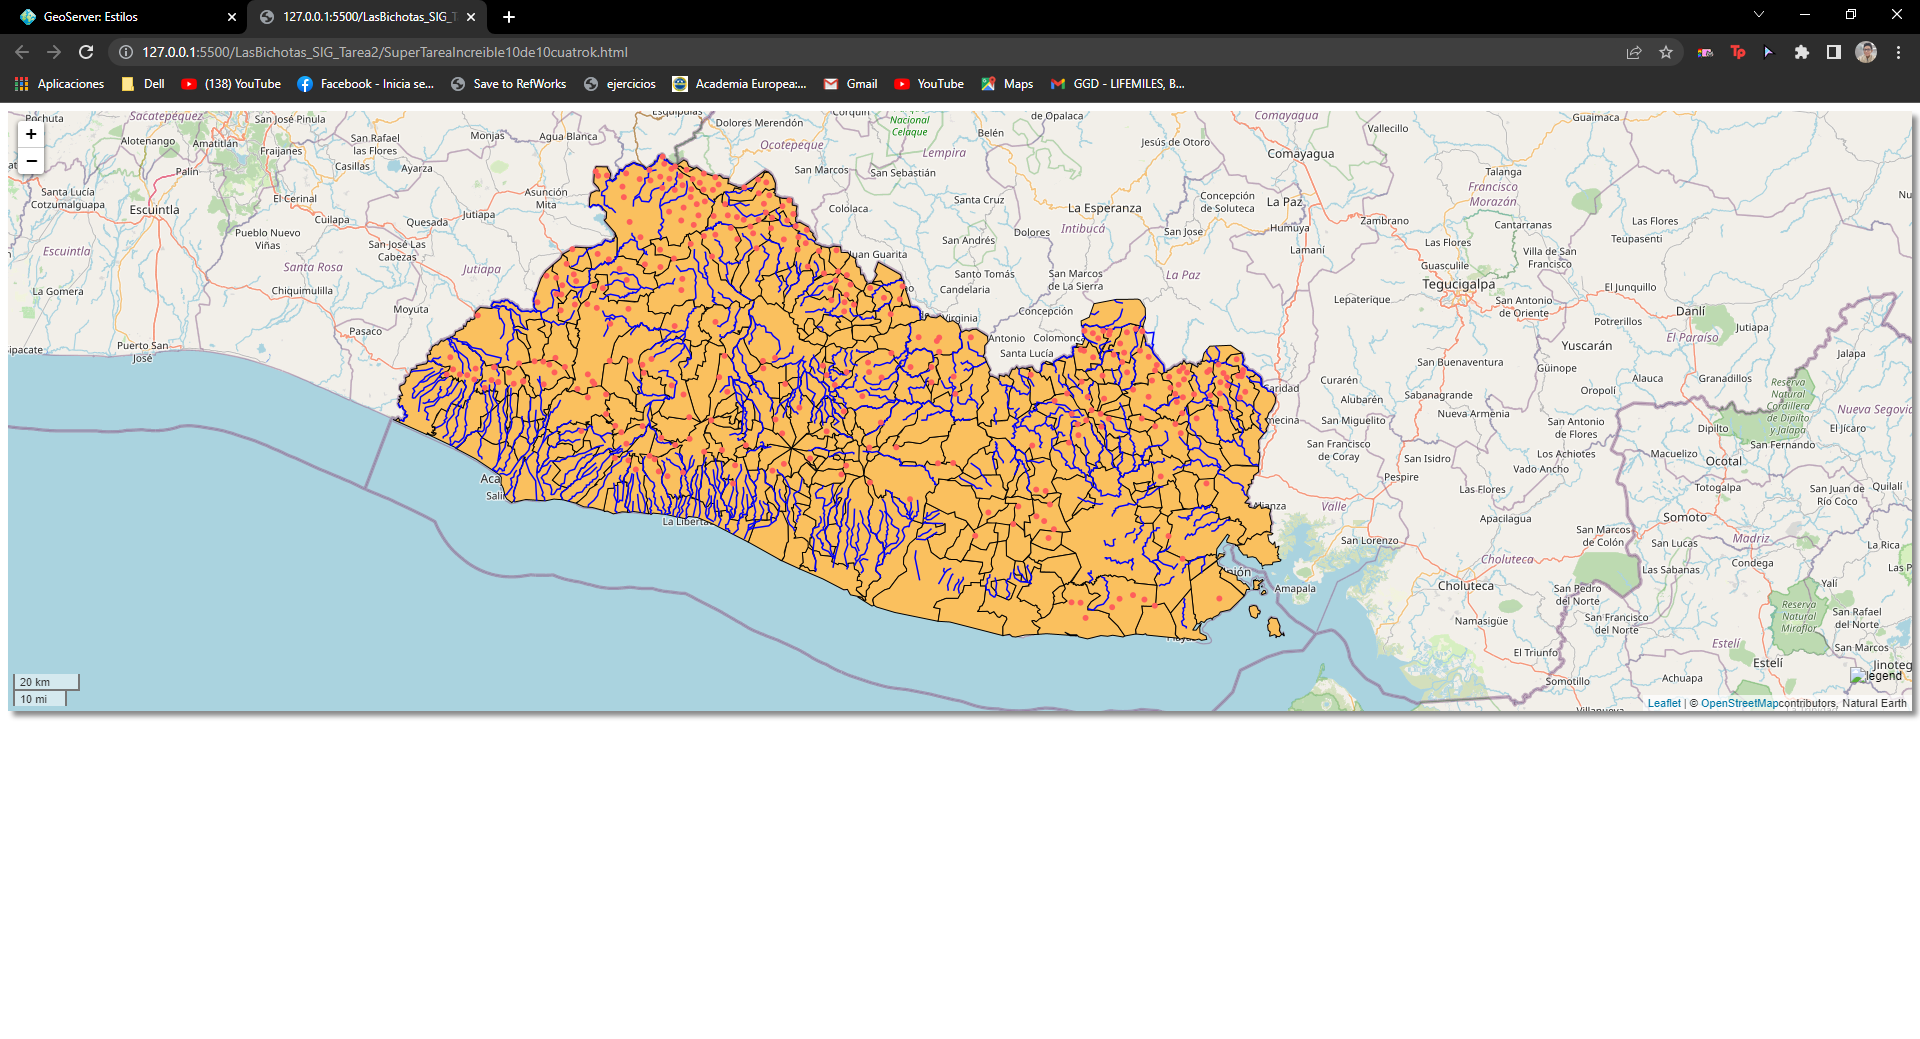
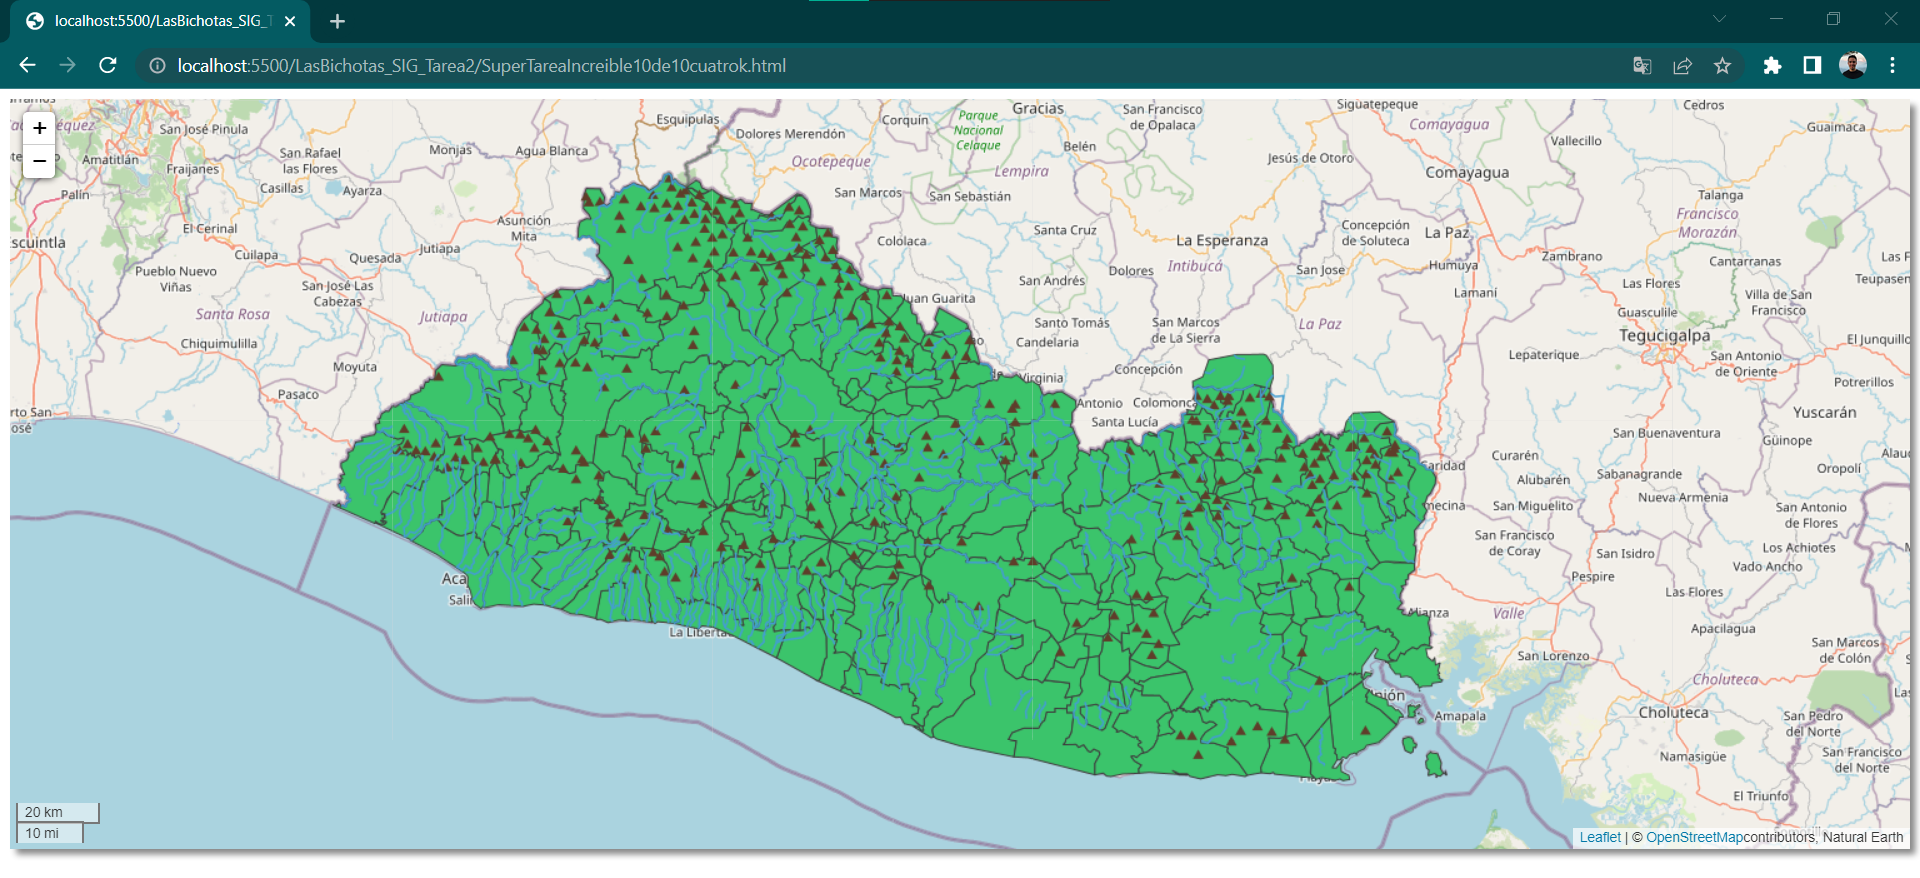
add: cambios finales

diff --git a/SuperTareaIncreible10de10cuatrok.html b/SuperTareaIncreible10de10cuatrok.html
@@ -13,6 +13,18 @@
         height: 600px;
         box-shadow: 5px 5px 5px #888;
       }
+      .info {
+        padding: 6px 8px;
+        font: 14px/16px Arial, Helvetica, sans-serif;
+        background: white;
+        background: rgba(255,255,255,0.8);
+        box-shadow: 0 0 15px rgba(0,0,0,0.2);
+        border-radius: 5px;
+      }
+      .info h2 {
+        margin: 0 0 5px;
+        color: #777;
+      }
     </style>
   </head>
   <body>
@@ -28,51 +40,41 @@
         }
       );
 
-      var cities = L.tileLayer.wms("http://localhost:8080/geoserver/cnr/wms", {
-        layers: "el_salvador_lccnad27 — munA_CNR2013",
+      var municipio = L.tileLayer.wms("http://localhost:8080/geoserver/cnr/wms", {
+        layers: "Municipios",
         format: "image/png",
         transparent: true,
         tiled: true,
-        styles:'municipio',
+        styles:'style_municipios',
         attribution: "Natural Earth",
       });
 
-      var countries = L.tileLayer.wms("http://localhost:8080/geoserver/cnr/wms", {
-        layers: "el_salvador_lccnad27 — cerrosP_200K_CNR2013",
+      var cerros = L.tileLayer.wms("http://localhost:8080/geoserver/cnr/wms", {
+        layers: "Cerros",
         format: "image/png",
         transparent: true,
         tiled: true,
-        styles:'cerros',
+        styles:'style_cerros',
         attribution: "Natural Earth",
       });
 
-      
-
-      var rivers = L.tileLayer.wms("http://localhost:8080/geoserver/cnr/wms", {
-        layers: "el_salvador_lccnad27 — rioL_CNR2013",
+      var rios = L.tileLayer.wms("http://localhost:8080/geoserver/cnr/wms", {
+        layers: "Rios",
         format: "image/png",
         transparent: true,
         tiled: true,
+        styles: 'style_rios',
         attribution: "Natural Earth",
       });
 
       var map = L.map("map", {
         center: [41.66, -4.72],
         zoom: 4,
-        layers: [osm, cities,rivers, countries],
+        layers: [osm, municipio, cerros, rios],
         scrollWheelZoom: false,
       });
       L.control.scale().addTo(map);
 
-      // Insertando una leyenda en el mapa
-      var legend = L.control({ position: "bottomright" });
-      legend.onAdd = function (map) {
-        var div = L.DomUtil.create("div", "info legend");
-        div.innerHTML +=
-          '<img src="http://localhost:8080/geoserver/wms?REQUEST=GetLegendGraphic&VERSION=1.0.0&FORMAT=image/png&WIDTH=20&HEIGHT=20&LAYER=worldgroup" alt="legend" width="101" height="120">';
-        return div;
-      };
-      legend.addTo(map);
     </script>
   </body>
 </html>
